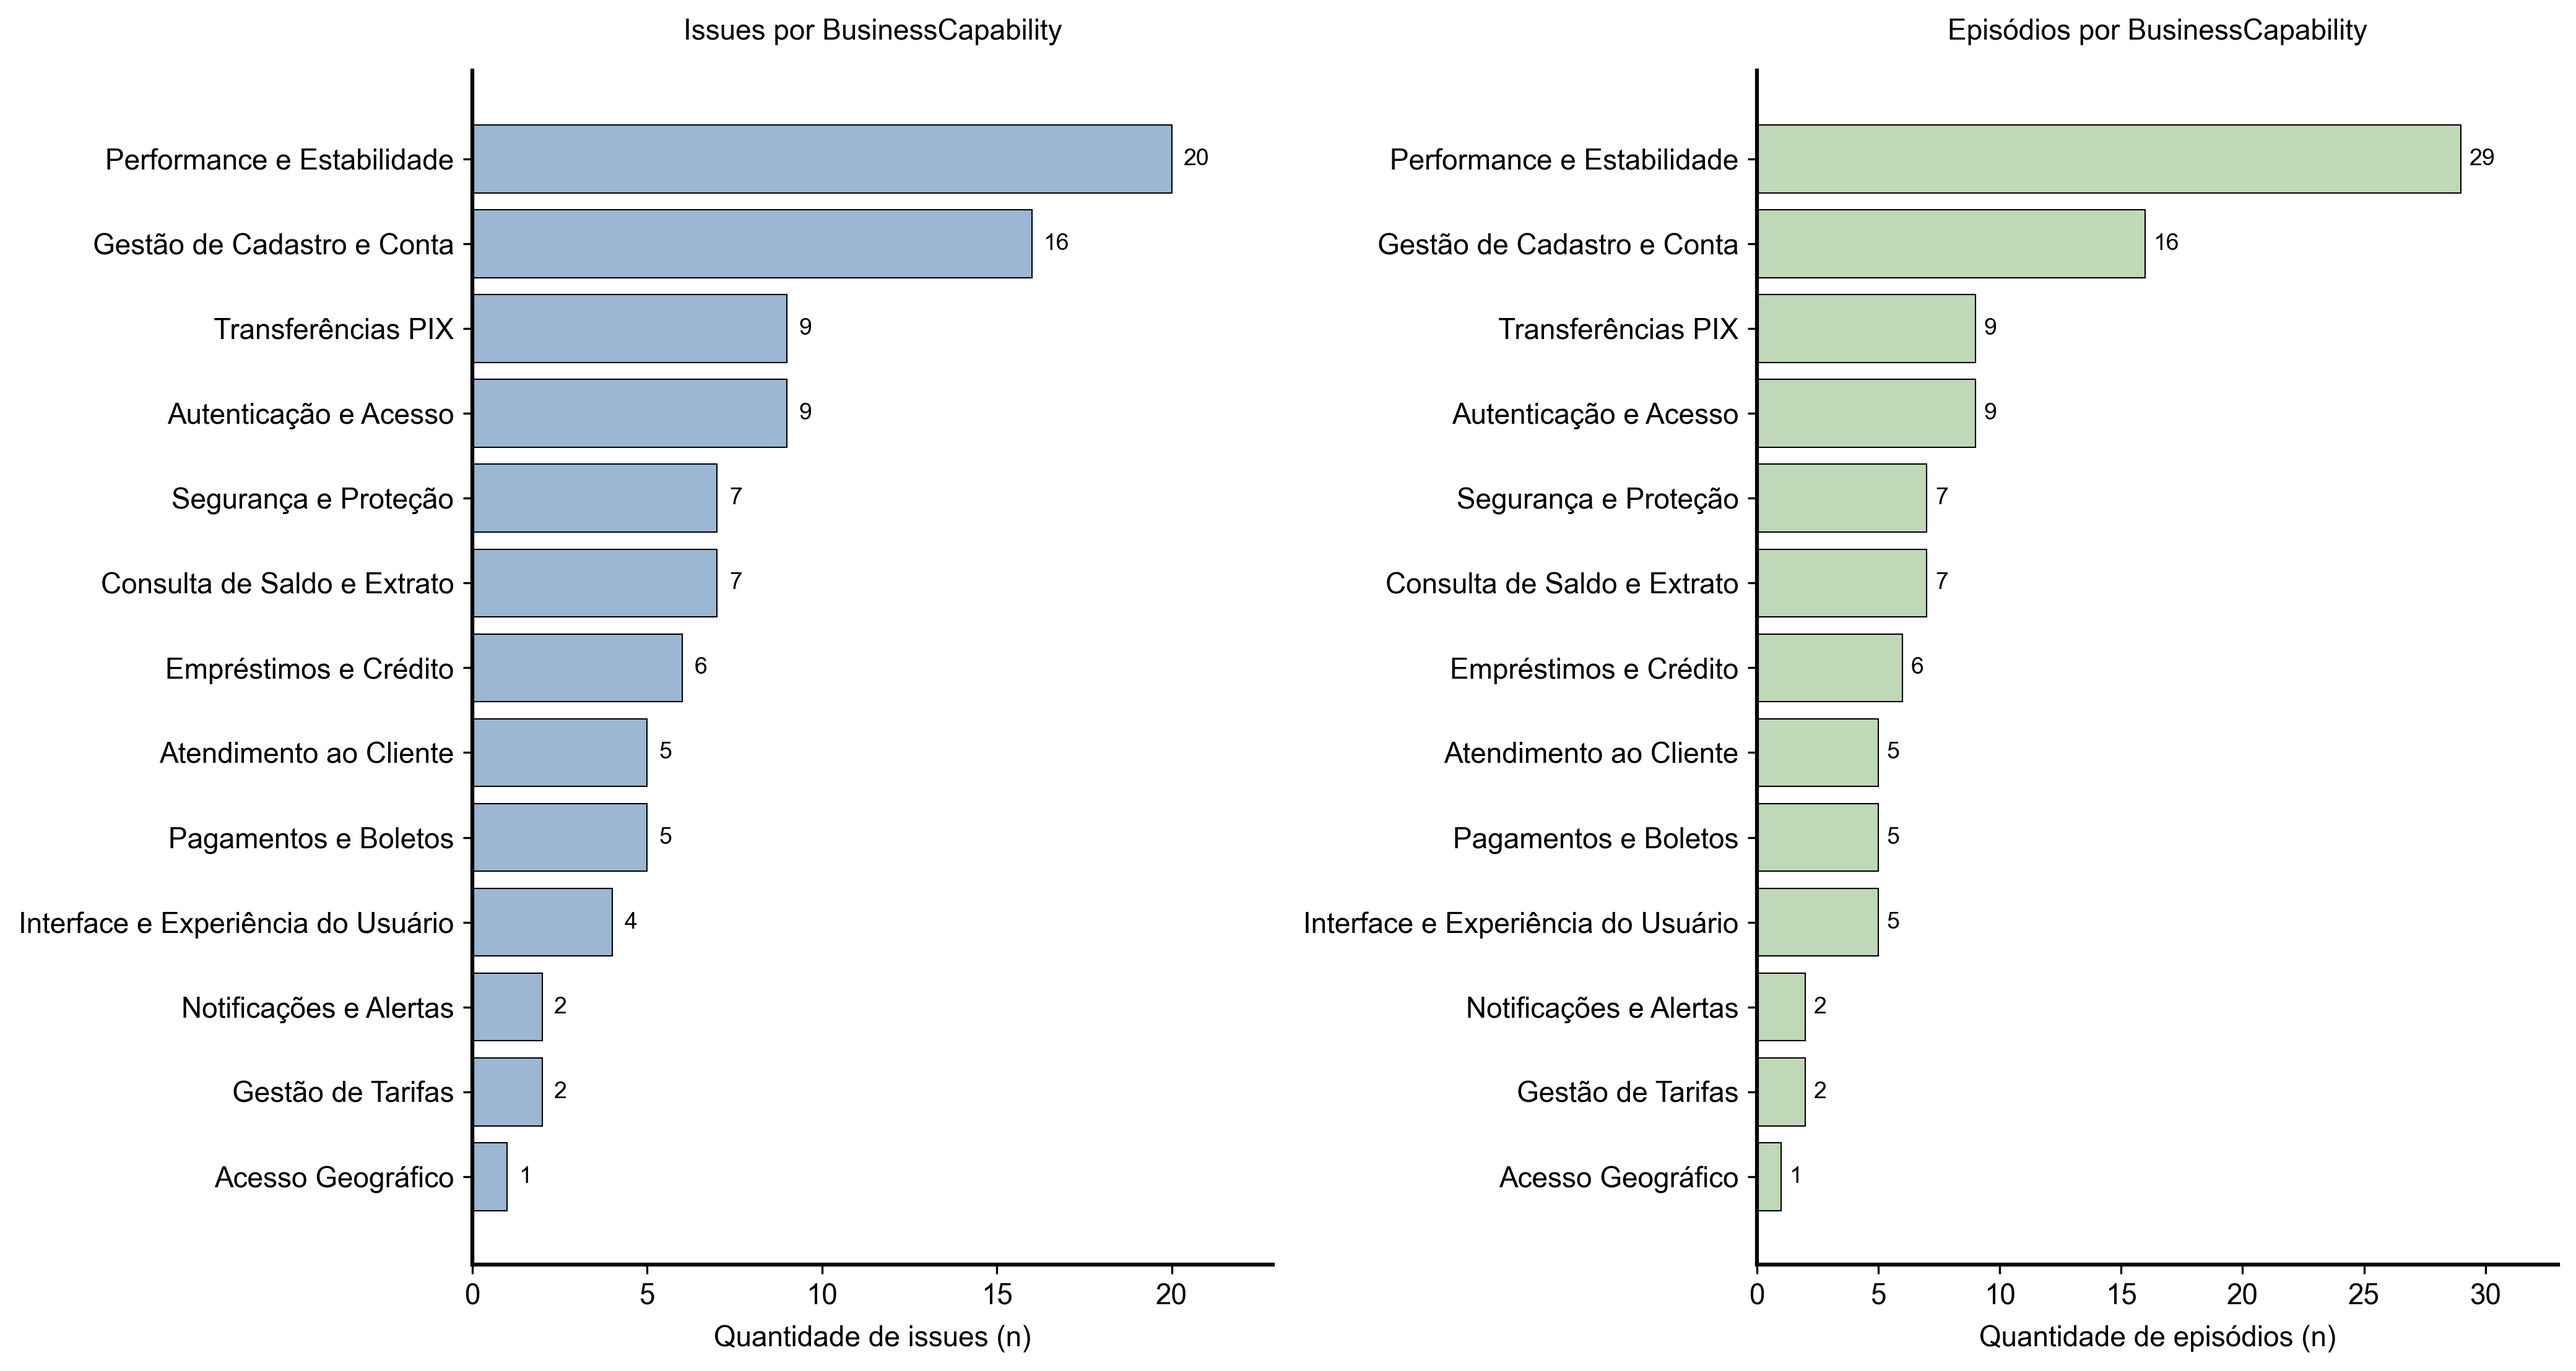
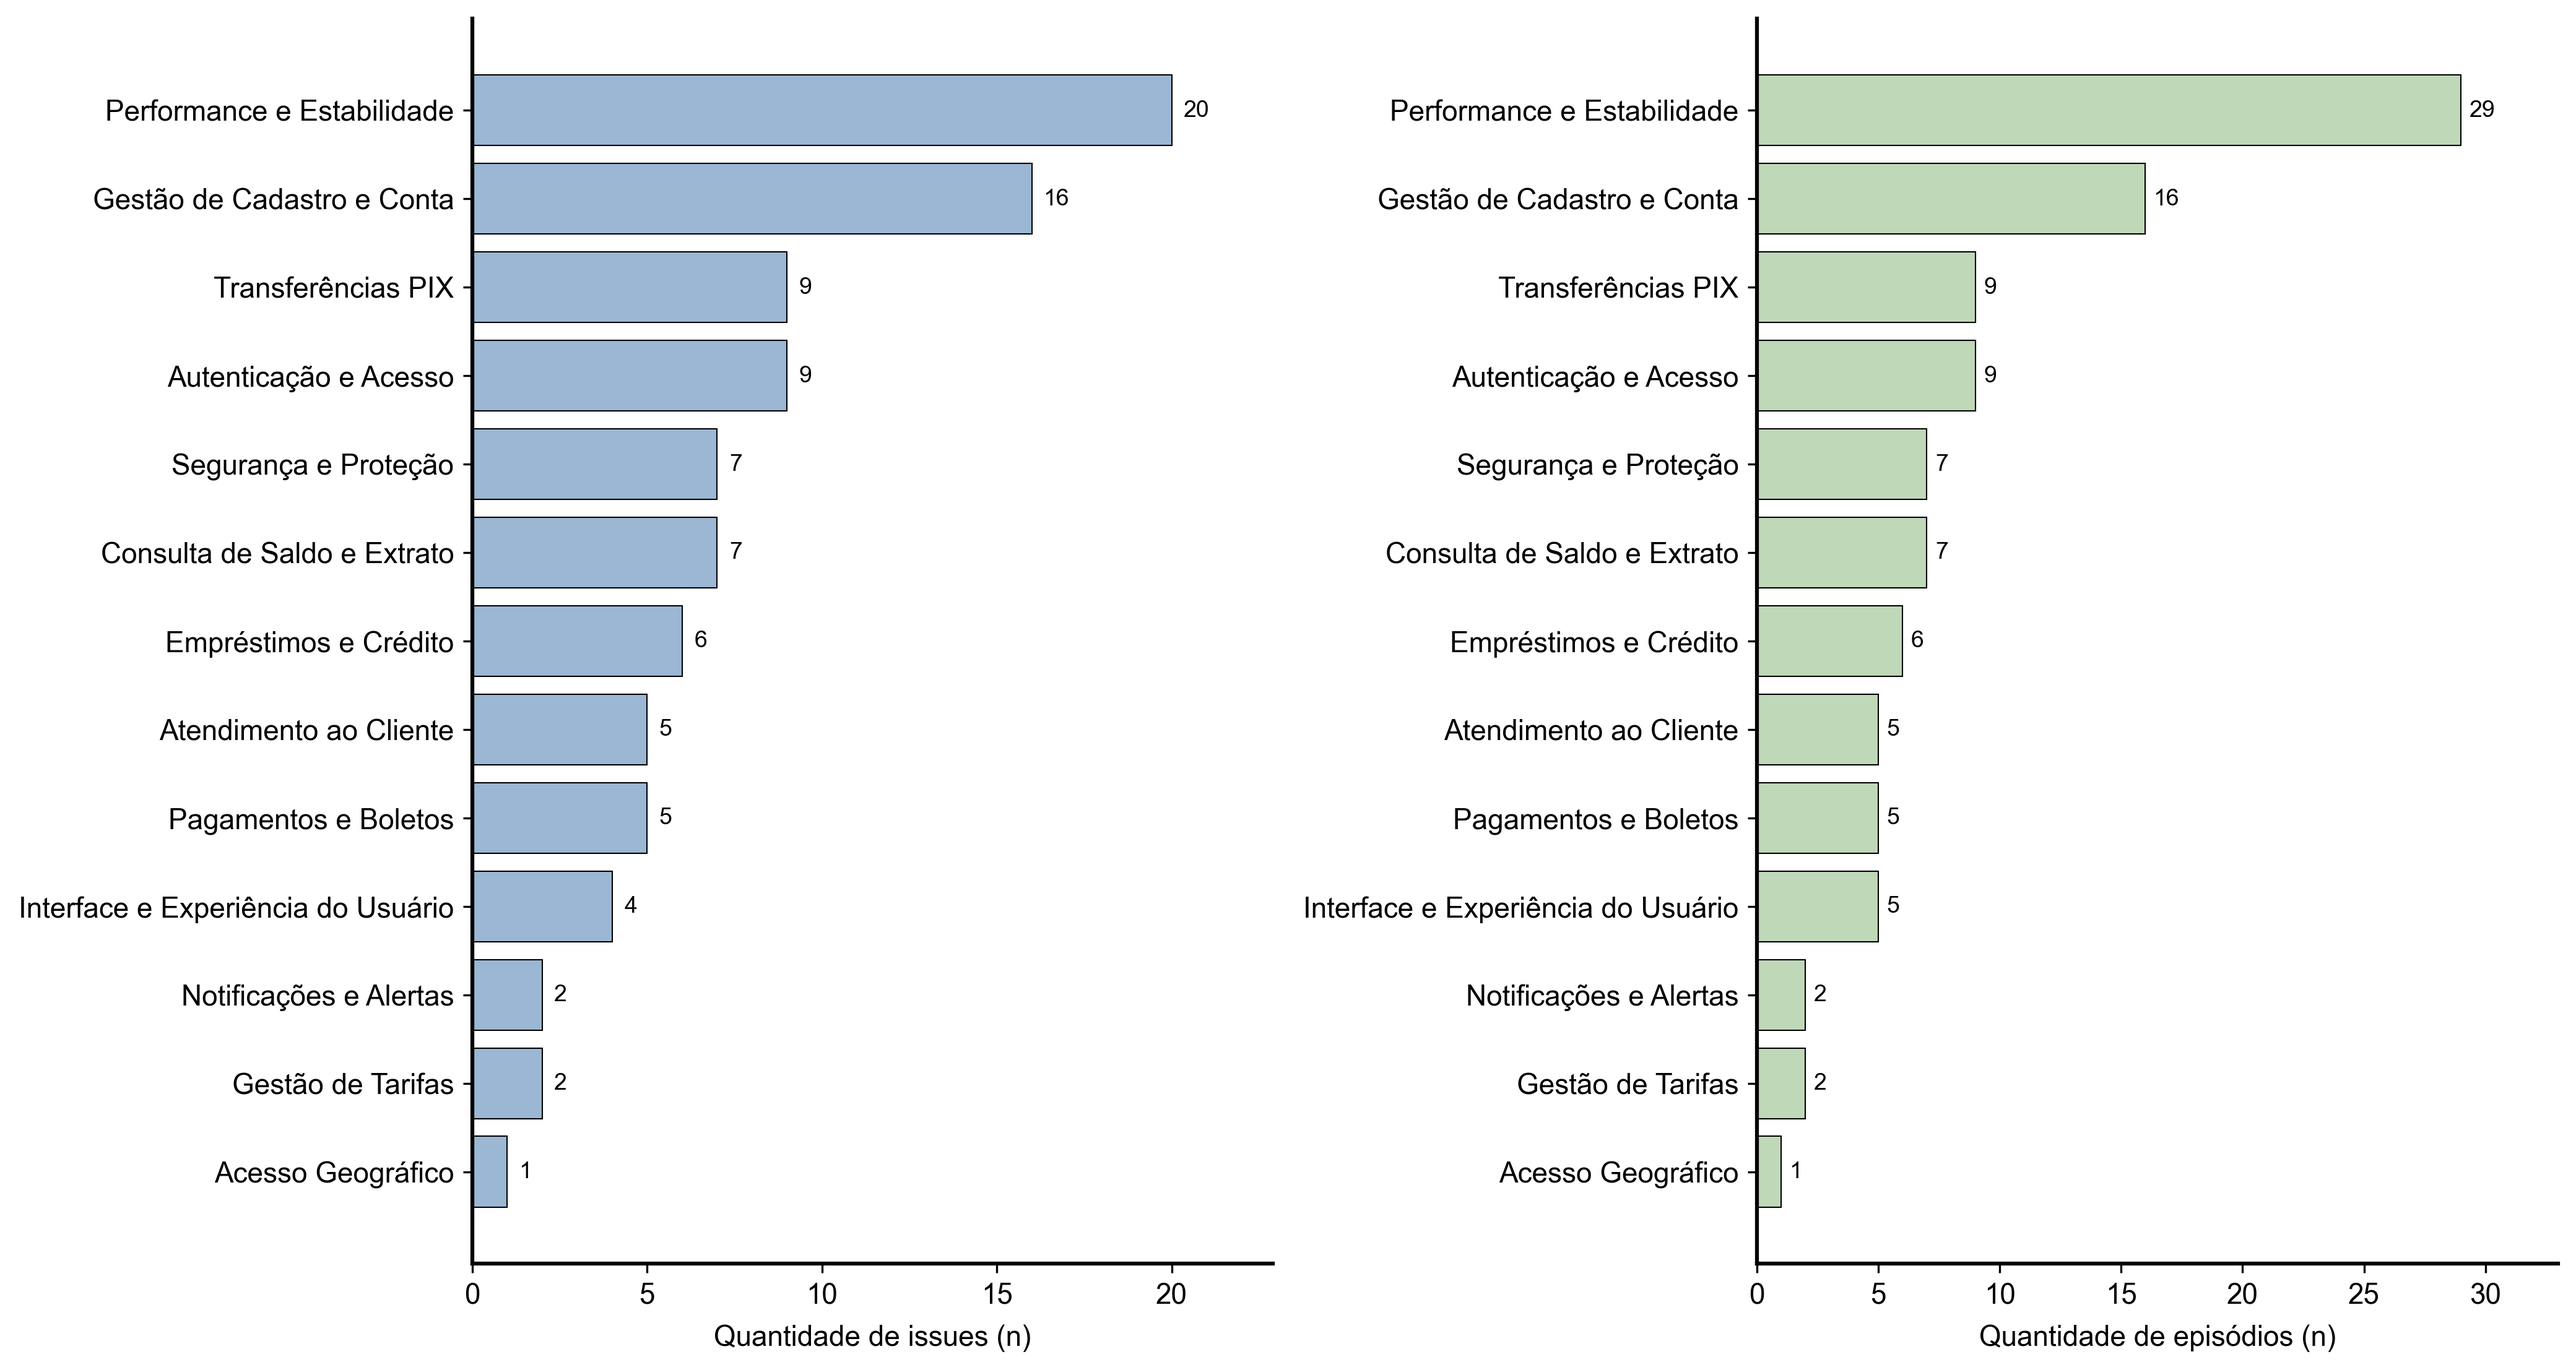
docs(tcc): remover títulos e padronizar painéis da figura 10
Made-with: Cursor

diff --git a/scripts/generate_tcc_visualizations.py b/scripts/generate_tcc_visualizations.py
@@ -16,6 +16,7 @@ try:
         CINZA_MEDIO,
         aplicar_eixos_principais,
         contexto,
+        painel_letra,
     )
 except ImportError:
     from tcc_chart_style import (
@@ -24,6 +25,7 @@ except ImportError:
         CINZA_MEDIO,
         aplicar_eixos_principais,
         contexto,
+        painel_letra,
     )
 
 def carregar_dados_metricas():
@@ -67,7 +69,6 @@ def grafico_distribuicao_issues_por_capability(dados, output_dir):
             linewidth=0.5,
         )
         ax1.set_xlabel("Quantidade de issues (n)", fontsize=11, fontweight="normal", labelpad=6)
-        ax1.set_title("Issues por BusinessCapability", fontsize=11, fontweight="normal", pad=12)
         aplicar_eixos_principais(ax1)
         xmax = df["Issues"].max()
         ax1.set_xlim(0, xmax * 1.12 + 0.5)
@@ -82,7 +83,6 @@ def grafico_distribuicao_issues_por_capability(dados, output_dir):
             linewidth=0.5,
         )
         ax2.set_xlabel("Quantidade de episódios (n)", fontsize=11, fontweight="normal", labelpad=6)
-        ax2.set_title("Episódios por BusinessCapability", fontsize=11, fontweight="normal", pad=12)
         aplicar_eixos_principais(ax2)
         xmax2 = df["Episódios"].max()
         ax2.set_xlim(0, xmax2 * 1.12 + 0.5)
@@ -130,7 +130,6 @@ def grafico_top_10_issues(dados, output_dir):
         ax.set_yticks(range(len(df)))
         ax.set_yticklabels(df["Issue"], fontsize=9)
         ax.set_xlabel("Número de episódios (n)", fontsize=11, fontweight="normal", labelpad=6)
-        ax.set_title("Dez issues mais frequentes", fontsize=11, fontweight="normal", pad=12)
         aplicar_eixos_principais(ax)
         xmax = df["Episódios"].max()
         ax.set_xlim(0, xmax * 1.15 + 0.3)
@@ -180,7 +179,8 @@ def grafico_distribuicao_por_nivel_tipo(dados, output_dir):
             colors=[CINZA_ESCURO, CINZA_CLARO],
             **pie_kw,
         )
-        axes[0].set_title("Por nível hierárquico", fontsize=11, fontweight="normal", pad=12)
+        axes[0].set_title("Nível hierárquico", fontsize=11, fontweight="normal", pad=12)
+        painel_letra(axes[0], "A")
 
         tipo_labels = [k for k, v in tipo_stats.items() if v > 0]
         tipo_values = [tipo_stats[k] for k in tipo_labels]
@@ -192,7 +192,8 @@ def grafico_distribuicao_por_nivel_tipo(dados, output_dir):
             colors=cinzas_tipo,
             **pie_kw,
         )
-        axes[1].set_title("Por tipo de capability", fontsize=11, fontweight="normal", pad=12)
+        axes[1].set_title("Tipo de BusinessCapability", fontsize=11, fontweight="normal", pad=12)
+        painel_letra(axes[1], "B")
 
         valor_labels = [k for k, v in valor_stats.items() if v > 0]
         valor_values = [valor_stats[k] for k in valor_labels]
@@ -204,7 +205,8 @@ def grafico_distribuicao_por_nivel_tipo(dados, output_dir):
             colors=cinzas_val,
             **pie_kw,
         )
-        axes[2].set_title("Por valor de negócio", fontsize=11, fontweight="normal", pad=12)
+        axes[2].set_title("Valor de negócio", fontsize=11, fontweight="normal", pad=12)
+        painel_letra(axes[2], "C")
 
         plt.tight_layout()
         plt.savefig(

diff --git a/tcc/TCC_31_03.md b/tcc/TCC_31_03.md
@@ -275,7 +275,7 @@ Ao examinar como as issues se distribuem segundo as características das Busines
 
 Distribuição por nível, tipo e valor de negócio
 
-Figura 10. Distribuição de issues por nível hierárquico, tipo de BusinessCapability e valor de negócio
+Figura 10. Distribuição de issues em três painéis, (A) nível hierárquico das BusinessCapabilities, (B) tipo de BusinessCapability e (C) valor de negócio
 
 Fonte: Resultados originais da pesquisa (2026)
 
